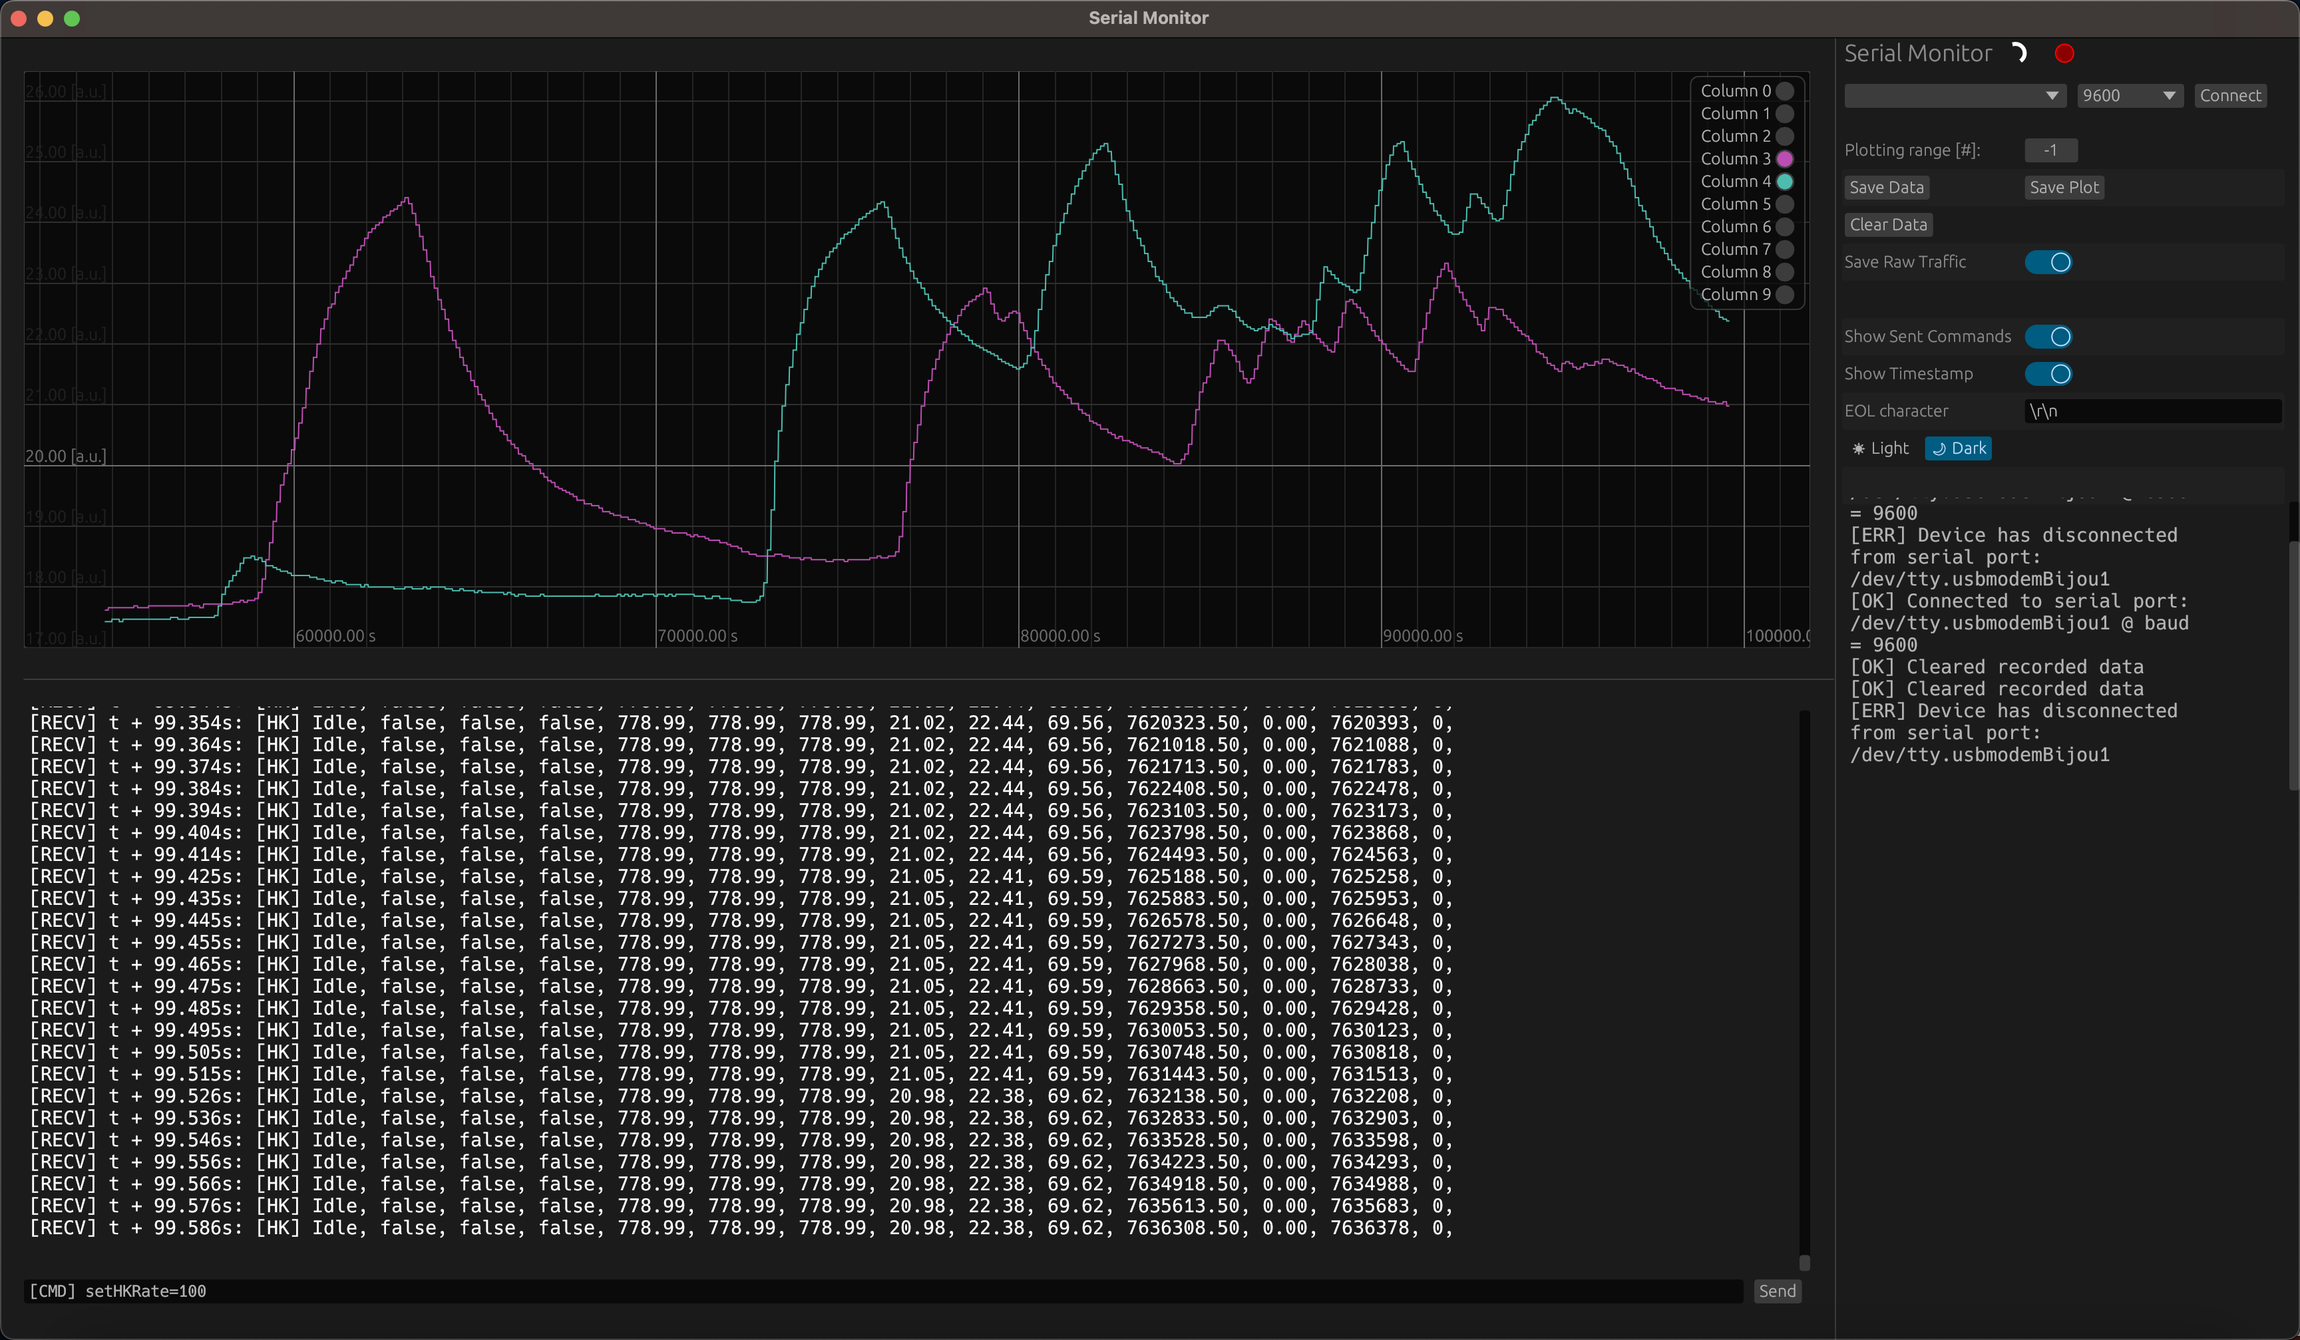
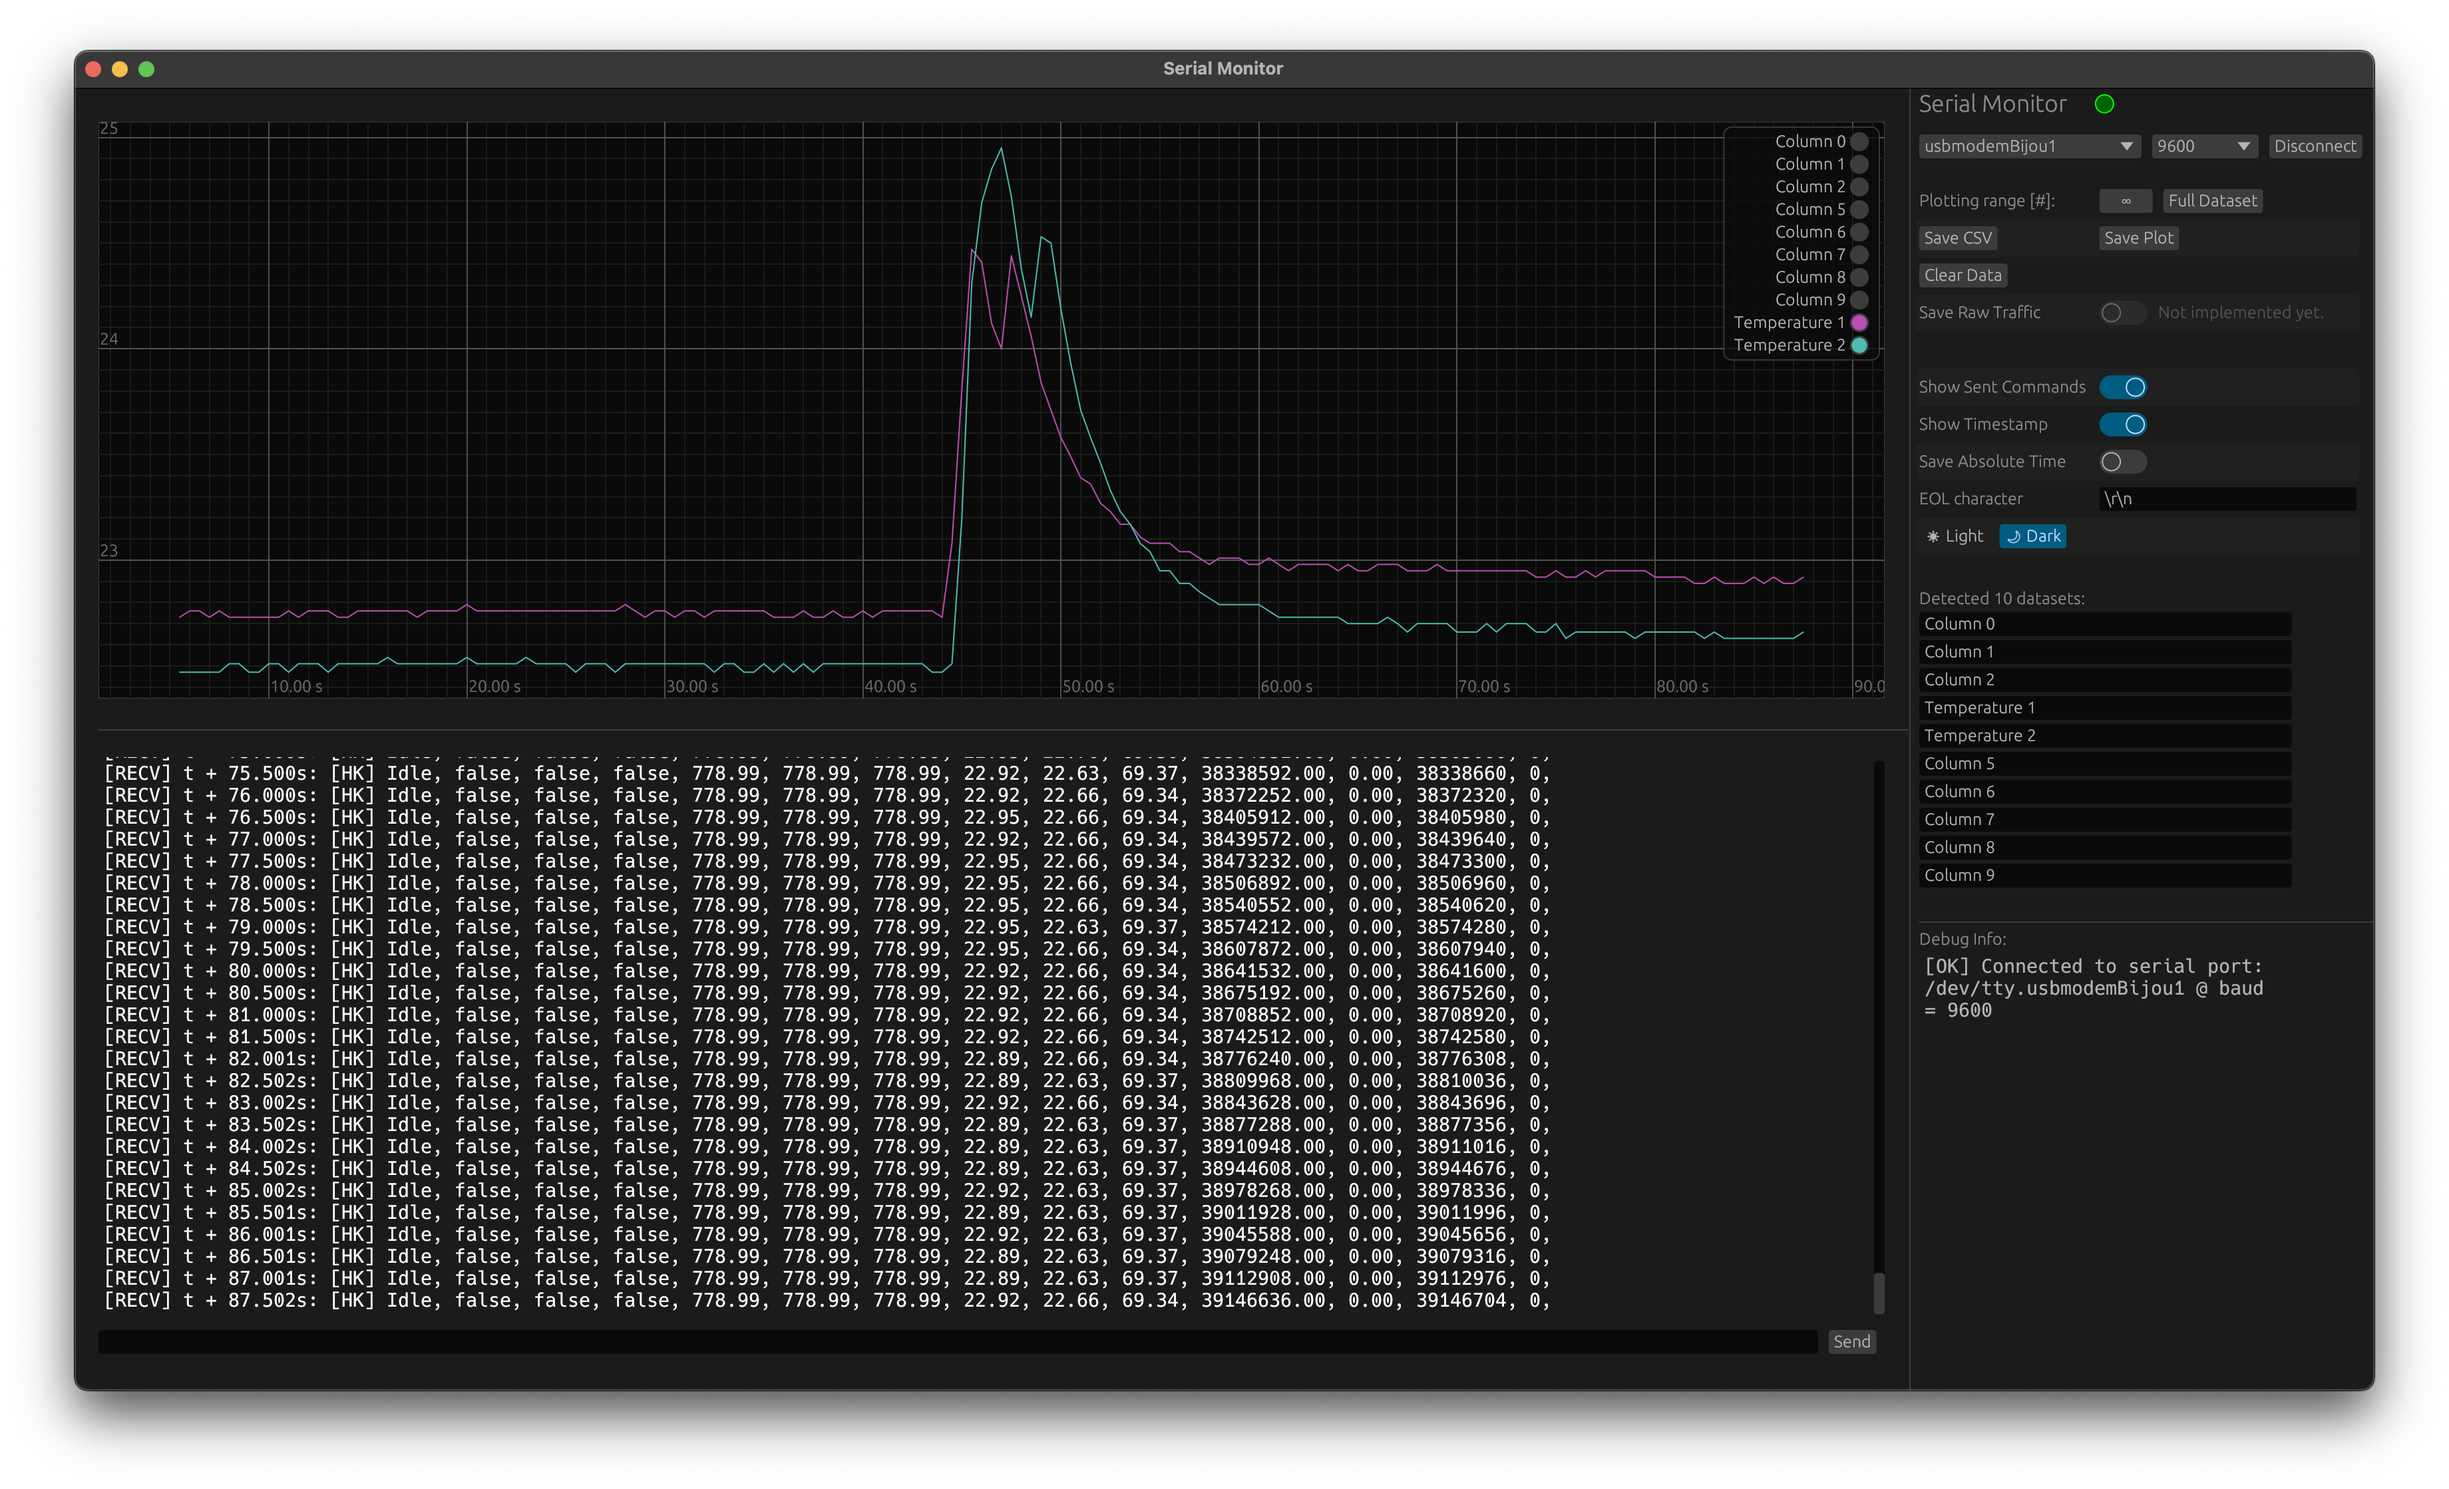
update with new feature

diff --git a/README.md b/README.md
@@ -22,9 +22,9 @@ Features:
 - [X] Cross-platform, fully written in Rust
 - [X] Ability to save text to file
 - [X] Ability to save the plot (Attention: uses unsafe code, experimental)
+- [X] allow to put in labels for the different data columns (instead of column 1, 2, ...)
 - [ ] Save raw data to file (at least as an option)
 - [ ] Smarter data parser
-- [ ] allow to put in labels for the different data columns (instead of column 1, 2, ...)
 - [ ] make serial print selectable and show corresponding datapoint in plot
 - [ ] COM-Port names on Windows (display manufacturer, name, pid or vid of device?)
 - [ ] make side panel and plot/serial prompt be resizeable (snappy?)
